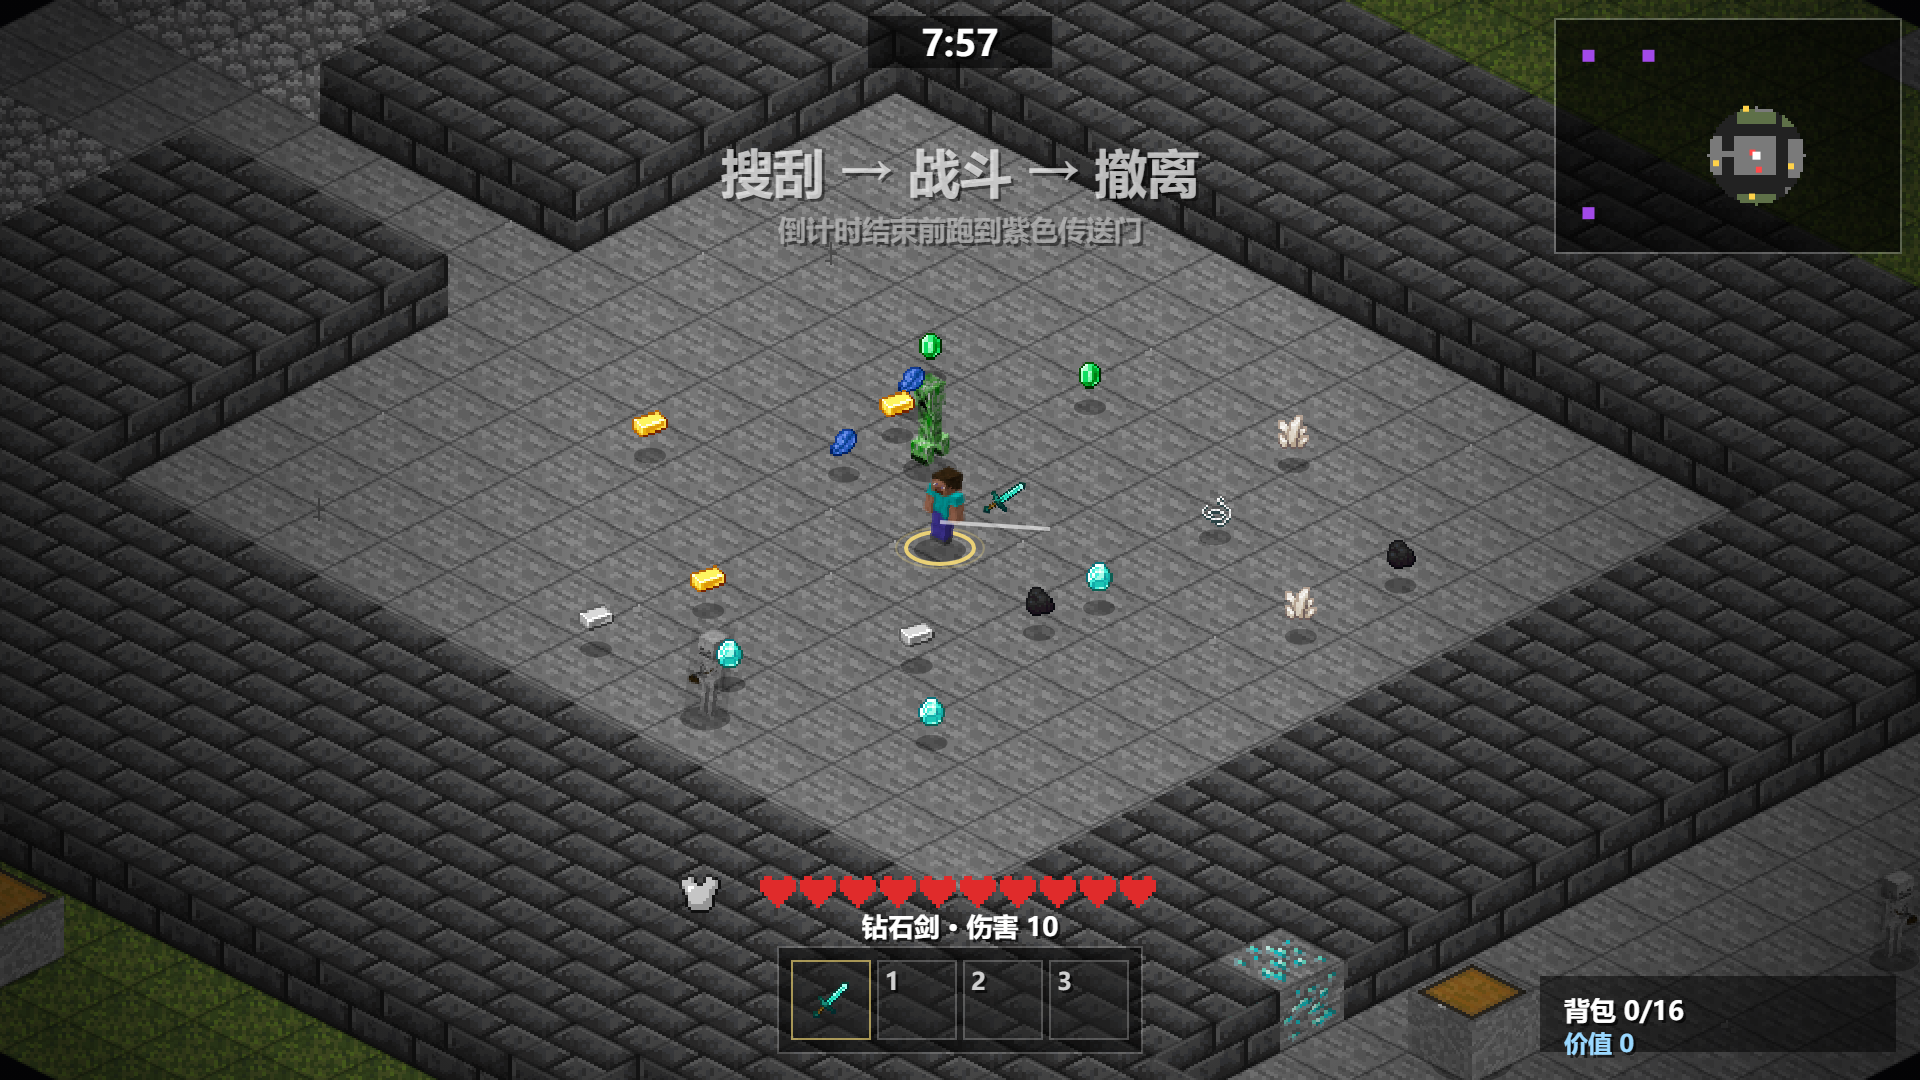
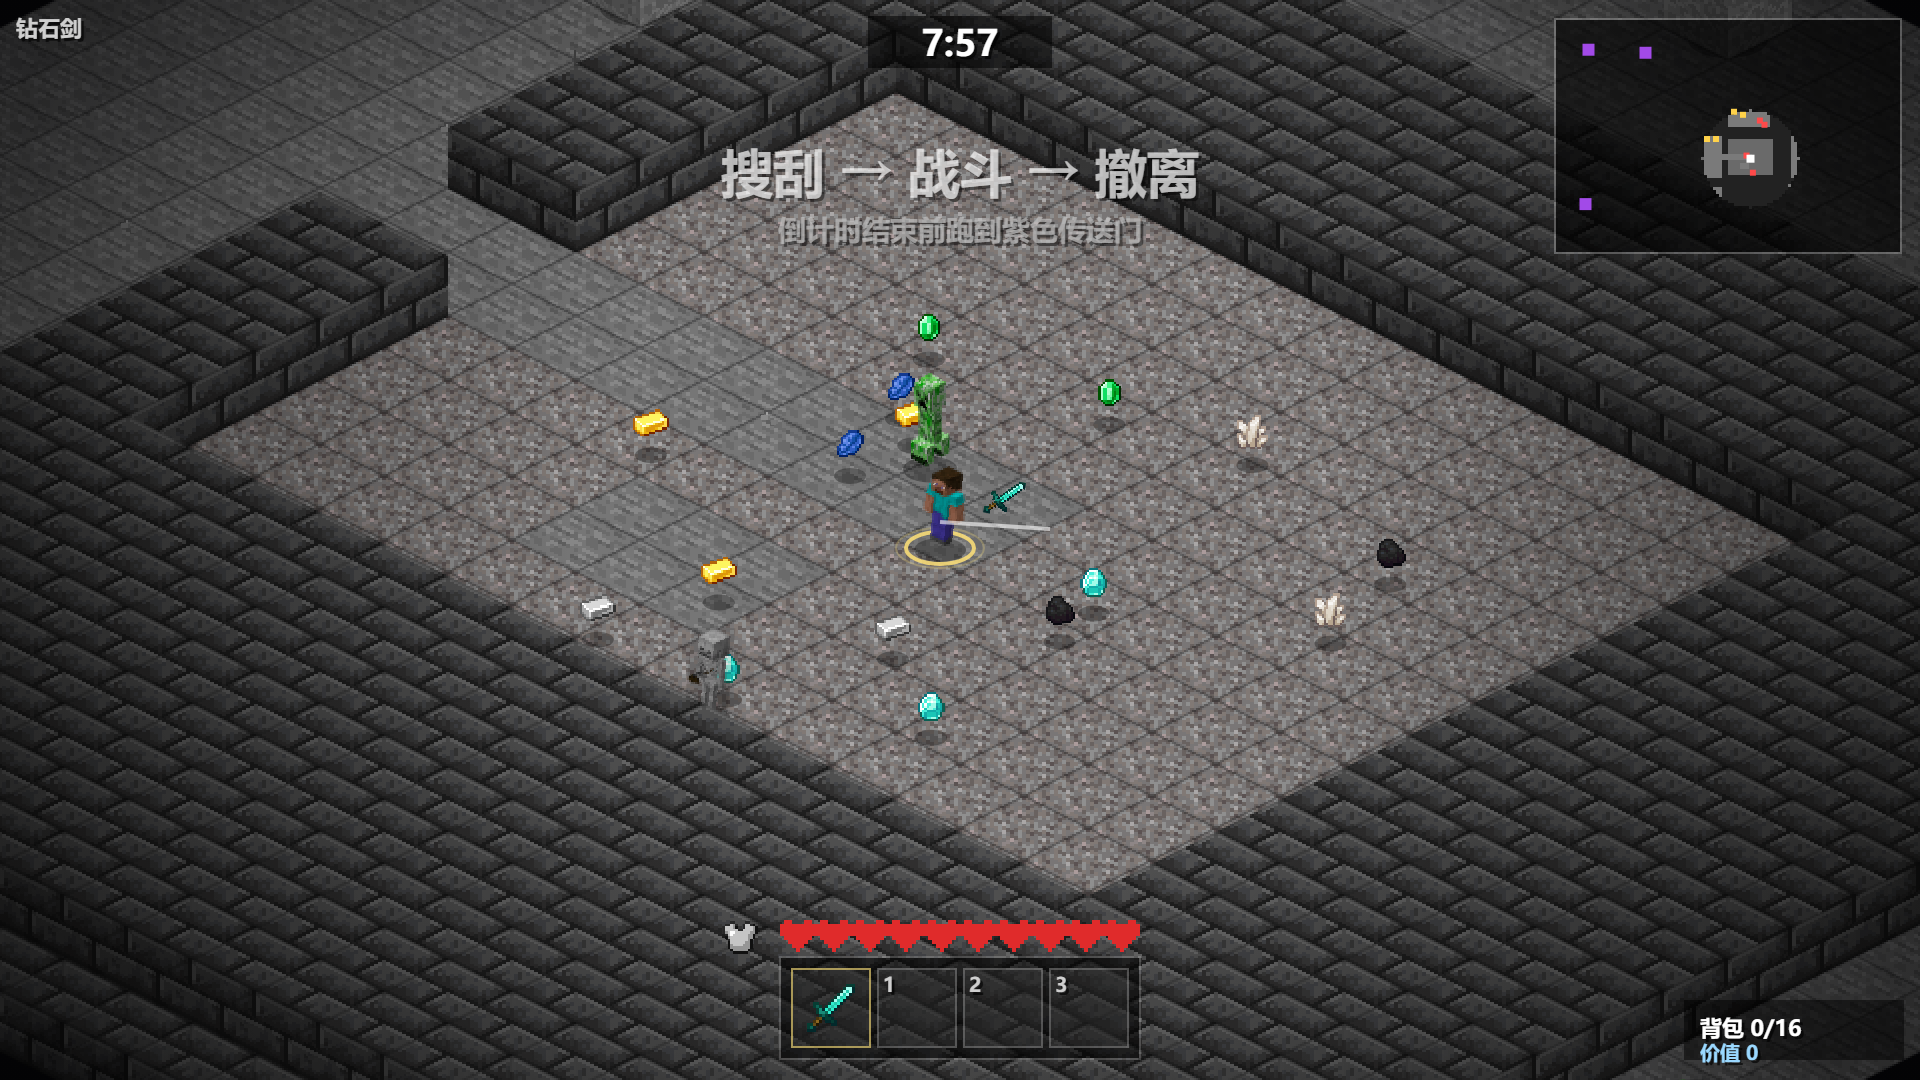
fix: 血条与快捷栏不再重叠、武器名移到左上、1920x1080 双倍整数渲染

diff --git a/js/render.js b/js/render.js
@@ -478,15 +478,15 @@
     const barSlot = 40, barGap = 3, barN = 4;
     const barW = barN * barSlot + (barN - 1) * barGap;
     const barX = W / 2 - barW / 2;
-    const barY = H - barSlot - 20;
-    const heartSpacing = 20;
+    const barY = H - barSlot - 16;
+    const heartSpacing = 18;
     const hx0 = W / 2 - (heartsPerRow * heartSpacing) / 2;
-    const hy0 = barY - 42;
+    const hy0 = barY - 24;
     for (let i = 0; i < heartCount; i++) {
       const row = Math.floor(i / heartsPerRow);
       const col = i % heartsPerRow;
       const hx = hx0 + col * heartSpacing;
-      const hy = hy0 + row * 20;
+      const hy = hy0 + row * 18;
       const hpIn = E.clamp(p.hp - i * perHeart, 0, perHeart);
       heartPath(ctx, hx, hy, s, 'rgba(0,0,0,0.55)');
       if (hpIn > 0) {
@@ -501,10 +501,13 @@
       }
     }
     // 护甲图标 + buff，放在血条左侧
-    if (p.armor) ctx.drawImage(P.item(p.armor.id), hx0 - 42, hy0 - 4, 24, 24);
-    let byy = hy0 - 22;
-    if (p.buffs.speed > 0) { text(ctx, '迅捷 ' + p.buffs.speed.toFixed(0) + 's', hx0 - 42, byy, 12, '#4ad8e8'); byy -= 16; }
-    if (p.buffs.str > 0) { text(ctx, '力量 ' + p.buffs.str.toFixed(0) + 's', hx0 - 42, byy, 12, '#d86ae8'); byy -= 16; }
+    let sy = 12;
+    if (p.armor) {
+      ctx.drawImage(P.item(p.armor.id), hx0 - 30, hy0 - 2, 20, 20);
+      sy = hy0 - 12;
+    }
+    if (p.buffs.speed > 0) { text(ctx, '迅捷 ' + p.buffs.speed.toFixed(0) + 's', hx0 - 30, sy, 11, '#4ad8e8'); sy -= 14; }
+    if (p.buffs.str > 0) { text(ctx, '力量 ' + p.buffs.str.toFixed(0) + 's', hx0 - 30, sy, 11, '#d86ae8'); sy -= 14; }
 
     // 计时
     const tleft = Math.max(0, g.world.timeLeft - g.time);
@@ -558,42 +561,39 @@
     // Boss 血条（只在交战时显示）
     const boss = g.enemies.find((e) => e.def.boss && !e.dead && e.aggro);
     if (boss) {
-      const bw = 460;
+      const bw = 420;
       ctx.fillStyle = 'rgba(0,0,0,0.7)';
-      ctx.fillRect(W / 2 - bw / 2, H - 200, bw, 18);
+      ctx.fillRect(W / 2 - bw / 2, H - 34, bw, 16);
       ctx.fillStyle = '#a24ae8';
-      ctx.fillRect(W / 2 - bw / 2 + 2, H - 198, (bw - 4) * E.clamp(boss.hp / boss.maxHp, 0, 1), 14);
-      text(ctx, '凋灵 ' + Math.max(0, Math.ceil(boss.hp)) + '/' + boss.maxHp, W / 2, H - 187, 13, '#ffffff', 'center');
+      ctx.fillRect(W / 2 - bw / 2 + 2, H - 32, (bw - 4) * E.clamp(boss.hp / boss.maxHp, 0, 1), 12);
+      text(ctx, '凋灵 ' + Math.max(0, Math.ceil(boss.hp)) + '/' + boss.maxHp, W / 2, H - 22, 12, '#ffffff', 'center');
     }
 
     // 快捷栏（仿 MC，居中底部）：武器 + 3 个快捷道具
     ctx.fillStyle = 'rgba(0,0,0,0.55)';
-    ctx.fillRect(barX - 6, barY - 6, barW + 12, barSlot + 12);
+    ctx.fillRect(barX - 5, barY - 5, barW + 10, barSlot + 10);
     ctx.strokeStyle = 'rgba(255,255,255,0.18)';
     ctx.lineWidth = 1;
-    ctx.strokeRect(barX - 6.5, barY - 6.5, barW + 13, barSlot + 13);
-
+    ctx.strokeRect(barX - 5.5, barY - 5.5, barW + 11, barSlot + 11);
     const slotItems = [p.weapon, p.quick[0], p.quick[1], p.quick[2]];
     for (let i = 0; i < barN; i++) {
       const x = barX + i * (barSlot + barGap), y = barY;
-      ctx.fillStyle = 'rgba(255,255,255,0.06)';
+      ctx.fillStyle = 'rgba(255,255,255,0.07)';
       ctx.fillRect(x, y, barSlot, barSlot);
       ctx.strokeStyle = i === 0 ? 'rgba(255,226,120,0.6)' : 'rgba(255,255,255,0.22)';
       ctx.strokeRect(x + 0.5, y + 0.5, barSlot - 1, barSlot - 1);
       const it = slotItems[i];
-      if (it) ctx.drawImage(P.item(it.id), x + 11, y + 11, barSlot - 22, barSlot - 22);
-      if (i > 0) text(ctx, String(i), x + 4, y + 15, 12, '#cfcfcf');
+      if (it) ctx.drawImage(P.item(it.id), x + 8, y + 8, barSlot - 16, barSlot - 16);
+      if (i > 0) text(ctx, String(i), x + 3, y + 12, 10, '#cfcfcf');
     }
-    if (p.weapon) {
-      text(ctx, p.weapon.name + ' · 伤害 ' + Math.round(MCX.Ent.weaponDmg(p)), W / 2, barY - 12, 13, '#ffffff', 'center');
-    }
+    if (p.weapon) text(ctx, p.weapon.name, 8, 18, 11, '#cfcfcf');
 
-    // 背包 / 价值（右下角，小字）
+    // 背包 / 价值（右下角）
     const used = MCX.Ent.invUsed(p);
     ctx.fillStyle = 'rgba(0,0,0,0.5)';
-    ctx.fillRect(W - 190, H - 52, 178, 38);
-    text(ctx, '背包 ' + used + '/' + p.slots, W - 178, H - 30, 13, used >= p.slots ? '#ff5a4a' : '#ffffff');
-    text(ctx, '价值 ' + MCX.Ent.invValue(p), W - 178, H - 14, 12, '#9ad8ff');
+    ctx.fillRect(W - 118, H - 40, 110, 30);
+    text(ctx, '背包 ' + used + '/' + p.slots, W - 110, H - 22, 11, used >= p.slots ? '#ff5a4a' : '#ffffff');
+    text(ctx, '价值 ' + MCX.Ent.invValue(p), W - 110, H - 10, 10, '#9ad8ff');
 
     // 交互提示
     const it = MCX.Ent.findInteractable(g);

diff --git a/js/engine.js b/js/engine.js
@@ -6,7 +6,7 @@
   const MCX = window.MCX = window.MCX || {};
   const E = MCX.E = {};
 
-  E.W = 960; E.H = 540; E.TILE = 32; E.SCALE = 2;   // 布局用 960x540，画到 1920x1080 画布上（2 倍整数放大，不糊）
+  E.W = 960; E.H = 540; E.TILE = 32; E.SCALE = 2;   // 布局 960x540，画到 1920x1080 画布（2 倍整数放大）
 
   /* ---------------- 数学 ---------------- */
   E.clamp = (v, a, b) => (v < a ? a : v > b ? b : v);

diff --git a/js/render2.js b/js/render2.js
@@ -314,7 +314,8 @@
     const sx = 1 + punch * 0.18 + (1 - stepping) * 0.03;
     const sy = 1 - punch * 0.10 - (1 - stepping) * 0.02 + stepping * 0.02;
 
-    {
+    const usedPuppet = false;
+    if (!usedPuppet) {
       ctx.save();
       ctx.translate(Math.round(sBase.x), Math.round(sBase.y + bob));
       ctx.rotate(lean);

diff --git a/index.html b/index.html
@@ -87,7 +87,6 @@
 <script src="js/entity.js"></script>
 <script src="js/render.js"></script>
 <script src="js/render2.js"></script>
-
 <script src="js/ui.js"></script>
 <script src="js/game.js"></script>
 <script src="js/smoke.js"></script>
